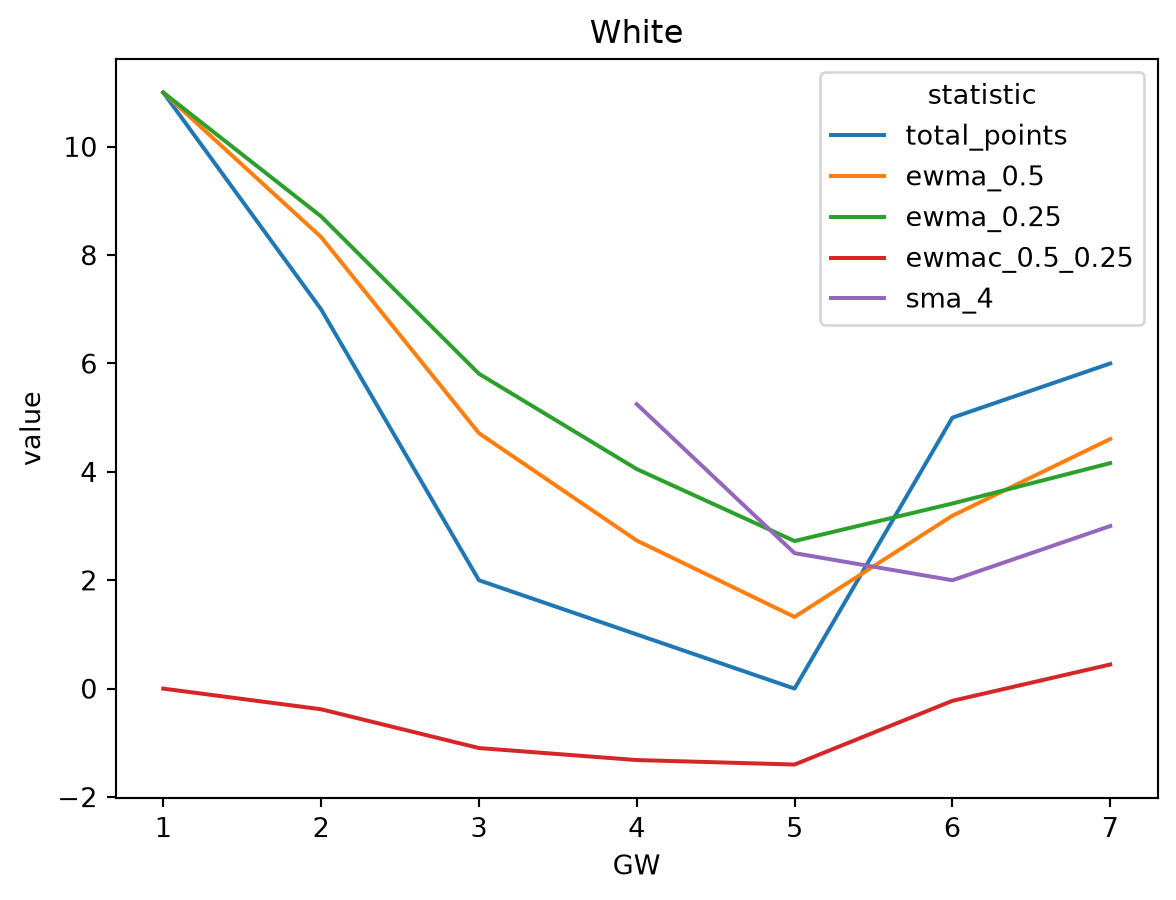
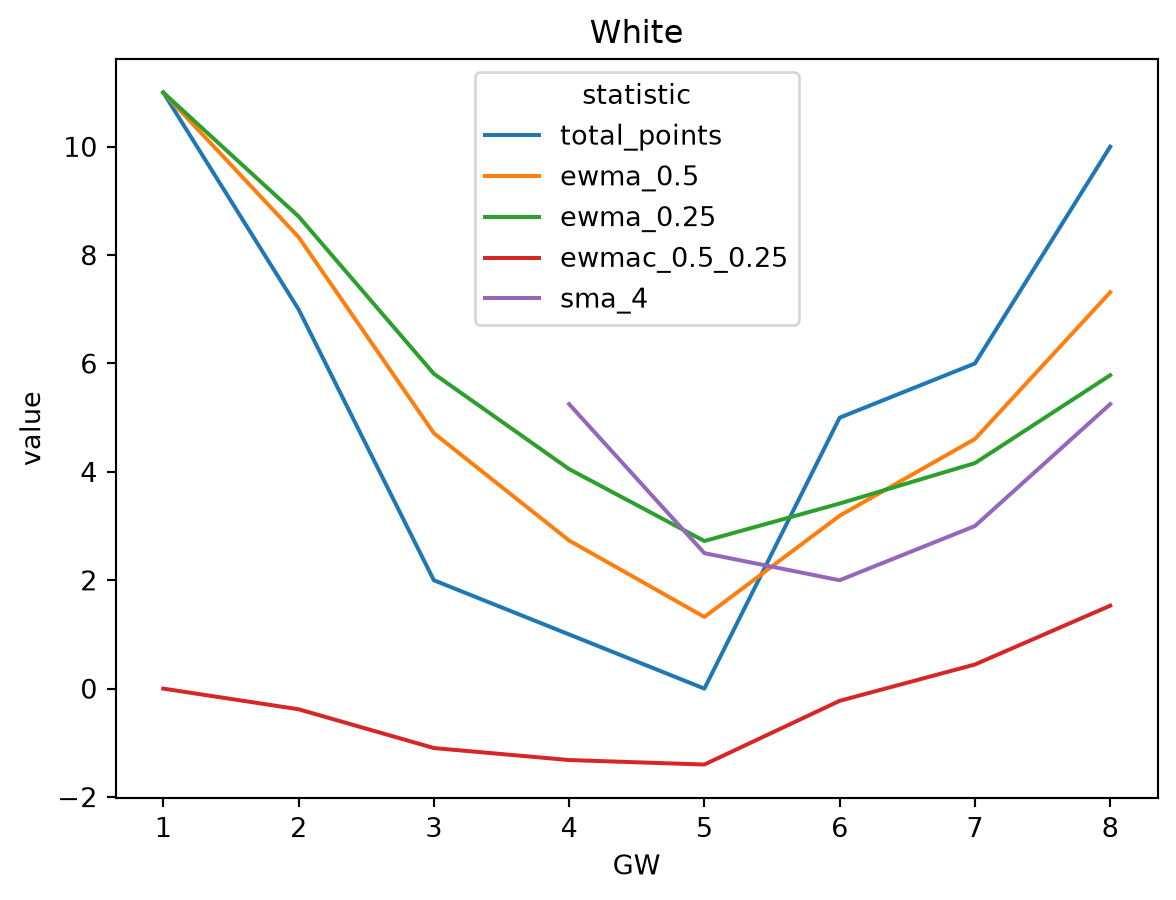
Fix/update points tracker (#41)
* add y limits to point tracker

* render book

diff --git a/src/fpl/points_tracker.py b/src/fpl/points_tracker.py
@@ -12,6 +12,8 @@ def points_tracker(gw):
     )
 
     ax = sns.lineplot(data=points, x='gw', y='points', hue = 'team')
+    ax.set_ylim(0, 100)
     plt.show()
 
-
+if __name__ == '__main__':
+    points_tracker(8)
